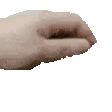
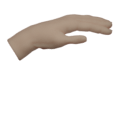
Meme: New hyperpet animation

diff --git a/cogs/meme/meme.py b/cogs/meme/meme.py
@@ -124,8 +124,7 @@ class Meme(rubbercog.Rubbercog):
                     optimize=False,
                 )
                 image_binary.seek(0)
-                filename = self.get_pet_name(petted)
-                await ctx.send(file=discord.File(fp=image_binary, filename=filename))
+                await ctx.send(file=discord.File(fp=image_binary, filename="pet.gif"))
 
             return
 
@@ -136,8 +135,7 @@ class Meme(rubbercog.Rubbercog):
                 image_utils.save_gif(frames, 30, image_binary)
                 image_binary.seek(0)
 
-                filename = self.get_pet_name(petted)
-                await ctx.send(file=discord.File(fp=image_binary, filename=filename))
+                await ctx.send(file=discord.File(fp=image_binary, filename="pet.gif"))
 
     @commands.guild_only()
     @commands.cooldown(rate=5, per=20.0, type=commands.BucketType.user)
@@ -161,7 +159,7 @@ class Meme(rubbercog.Rubbercog):
             response = requests.get(url)
             avatar = Image.open(BytesIO(response.content))
 
-            frames = self.get_hyperpet_frames(avatar, hue=True)
+            frames = self.get_hyperpet_frames(avatar)
 
             with BytesIO() as image_binary:
                 frames[0].save(
@@ -169,15 +167,14 @@ class Meme(rubbercog.Rubbercog):
                     format="GIF",
                     save_all=True,
                     append_images=frames[1:],
-                    duration=40,
+                    duration=30,
                     loop=0,
                     transparency=0,
                     disposal=2,
                     optimize=False,
                 )
                 image_binary.seek(0)
-                filename = self.get_pet_name(petted)
-                await ctx.send(file=discord.File(fp=image_binary, filename=filename))
+                await ctx.send(file=discord.File(fp=image_binary, filename="hyperpet.gif"))
 
     @commands.guild_only()
     @commands.cooldown(rate=5, per=20.0, type=commands.BucketType.user)
@@ -316,7 +313,7 @@ class Meme(rubbercog.Rubbercog):
         """Get frames for the pet"""
         frames = []
         width, height = 148, 148
-        vertical_offset = (0, 0, 0, 0, 0, 1, 2, 3, 4, 5, 4, 3, 2, 1)
+        vertical_offset = (0, 0, 0, 0, 1, 2, 3, 4, 5, 4, 3, 2, 2, 1, 0)
 
         frame_avatar = Meme.round_image(avatar.resize((100, 100)))
 
@@ -331,42 +328,25 @@ class Meme(rubbercog.Rubbercog):
         return frames
 
     @staticmethod
-    def get_hyperpet_frames(avatar: Image.Image, hue: bool = False) -> List[Image.Image]:
-        """Get frames for the pet
-
-        avatar: Image
-        hue: boolean; if set to True, avatar's hue is randomly offset
-        """
+    def get_hyperpet_frames(avatar: Image.Image) -> List[Image.Image]:
+        """Get frames for the hyperpet"""
         frames = []
-        deform_width = (-1, -2, 1, 2, 1)
-        defom_height = (4, 3, 2, 2, -4)
-        width, height = 80, 80
+        width, height = 148, 148
+        vertical_offset = (0, 1, 2, 3, 1, 0)
 
-        if hue:
-            git_hash = int(utils.git_get_hash(), 16)
-            avatar_pixels = np.array(avatar)
-        else:
-            git_hash = None
-            avatar_pixels = None
+        avatar = Meme.round_image(avatar.resize((100, 100)))
+        avatar_pixels = np.array(avatar)
+        git_hash = int(utils.git_get_hash(), 16)
 
-        for i in range(5):
-            if hue:
-                # get random values based on current hash -- last ten decimal digits
-                deform_hue = git_hash % 100 ** (i + 1) // 100 ** i / 100
-                avatar = Image.fromarray(image_utils.shift_hue(avatar_pixels, deform_hue))
+        for i in range(6):
+            deform_hue = git_hash % 100 ** (i + 1) // 100 ** i / 100
+            frame_avatar = Image.fromarray(image_utils.shift_hue(avatar_pixels, deform_hue))
 
-            frame = Image.new("RGBA", (112, 112), (255, 255, 255, 1))
-            hand = Image.open(f"data/meme/hyperpet/0{i+1}.png")
-            width -= deform_width[i]
-            height -= defom_height[i]
-            frame_avatar = avatar.resize((width, height))
-            frame_mask = Image.new("1", frame_avatar.size, 0)
-            draw = ImageDraw.Draw(frame_mask)
-            draw.ellipse((0, 0) + frame_avatar.size, fill=255)
-            frame_avatar.putalpha(frame_mask)
-
-            frame.paste(frame_avatar, (112 - width, 112 - height), frame_avatar)
-            frame.paste(hand, (0, 0), hand)
+            img = "%02d" % (i + 1)
+            frame = Image.new("RGBA", (width, height), (54, 57, 63, 1))
+            hand = Image.open(f"data/meme/hyperpetr/{img}.png")
+            frame.paste(frame_avatar, (35, 25 + vertical_offset[i]), frame_avatar)
+            frame.paste(hand, (10, 5), hand)
             frames.append(frame)
 
         return frames
